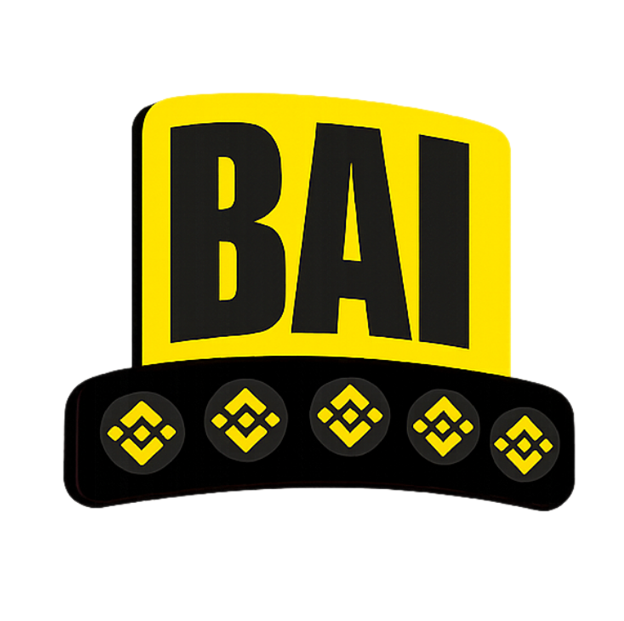
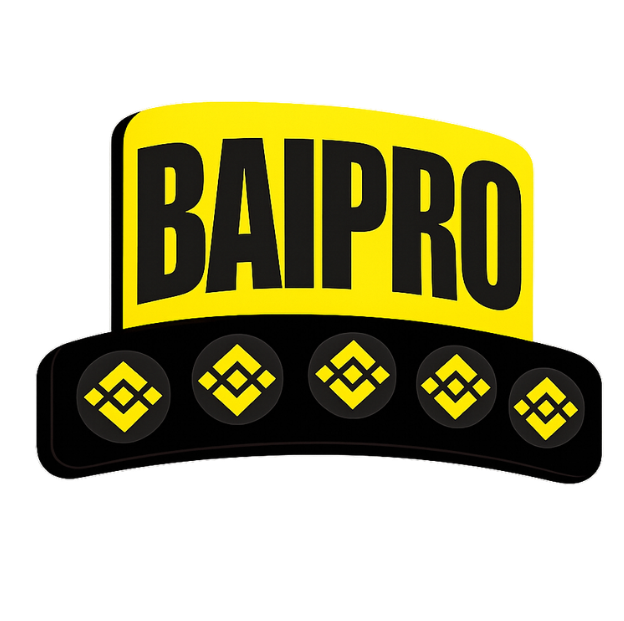
update

diff --git a/index.html b/index.html
@@ -1,7 +1,7 @@
 <!DOCTYPE html>
 <html lang="en">
   <head>
-    <title>Binance AI | $BAI</title>
+    <title>Binance Ai Pro | $BAIPRO</title>
     <meta charset="UTF-8" />
     <meta name="format-detection" content="telephone=no" />
     <style>
@@ -130,47 +130,47 @@
         <div class="run-row-text">
           <div class="run-row-text__line">
             <div class="run-row-text__row">
-              <p class="run-row-text__text">Welcome to the BAI</p>
+              <p class="run-row-text__text">Welcome to the BAIPRO</p>
               <p class="run-row-text__text run-row-text__text--white">
-                Welcome to the BAI
+                Welcome to the BAIPRO
               </p>
-              <p class="run-row-text__text">Welcome to the BAI</p>
+              <p class="run-row-text__text">Welcome to the BAIPRO</p>
               <p class="run-row-text__text run-row-text__text--white">
-                Welcome to the BAI
+                Welcome to the BAIPRO
               </p>
-              <p class="run-row-text__text">Welcome to the BAI</p>
+              <p class="run-row-text__text">Welcome to the BAIPRO</p>
               <p class="run-row-text__text run-row-text__text--white">
-                Welcome to the BAI
+                Welcome to the BAIPRO
               </p>
-              <p class="run-row-text__text">Welcome to the BAI</p>
+              <p class="run-row-text__text">Welcome to the BAIPRO</p>
               <p class="run-row-text__text run-row-text__text--white">
-                Welcome to the BAI
+                Welcome to the BAIPRO
               </p>
-              <p class="run-row-text__text">Welcome to the BAI</p>
+              <p class="run-row-text__text">Welcome to the BAIPRO</p>
               <p class="run-row-text__text run-row-text__text--white">
-                Welcome to the BAI
+                Welcome to the BAIPRO
               </p>
             </div>
             <div class="run-row-text__row">
-              <p class="run-row-text__text">Welcome to the BAI</p>
+              <p class="run-row-text__text">Welcome to the BAIPRO</p>
               <p class="run-row-text__text run-row-text__text--white">
-                Welcome to the BAI
+                Welcome to the BAIPRO
               </p>
-              <p class="run-row-text__text">Welcome to the BAI</p>
+              <p class="run-row-text__text">Welcome to the BAIPRO</p>
               <p class="run-row-text__text run-row-text__text--white">
-                Welcome to the BAI
+                Welcome to the BAIPRO
               </p>
-              <p class="run-row-text__text">Welcome to the BAI</p>
+              <p class="run-row-text__text">Welcome to the BAIPRO</p>
               <p class="run-row-text__text run-row-text__text--white">
-                Welcome to the BAI
+                Welcome to the BAIPRO
               </p>
-              <p class="run-row-text__text">Welcome to the BAI</p>
+              <p class="run-row-text__text">Welcome to the BAIPRO</p>
               <p class="run-row-text__text run-row-text__text--white">
-                Welcome to the BAI
+                Welcome to the BAIPRO
               </p>
-              <p class="run-row-text__text">Welcome to the BAI</p>
+              <p class="run-row-text__text">Welcome to the BAIPRO</p>
               <p class="run-row-text__text run-row-text__text--white">
-                Welcome to the BAI
+                Welcome to the BAIPRO
               </p>
             </div>
           </div>
@@ -275,11 +275,11 @@
                 data-watch-once
                 class="join__bot-title title-block"
               >
-                About Binance AI
+                About Binance Ai Pro
               </h3>
               <div class="join__text">
                 <p data-watch-threshold="0.5" data-watch data-watch-once>
-                  Binance AI ($BAI) is a community-driven digital asset forged with the spirit of strength, value, and long-term growth of Aster robot, Binance yellow robot and BNB AI Intern robot . Inspired by many tweets                                                                                           and the energy of innovation, it brings together a global community seeking stability while exploring limitless possibilities on Binance with CZ.
+                  Binance Ai Pro ($BAIPRO) is a community-driven digital asset forged with the spirit of strength, value, and long-term growth of Aster robot, Binance yellow robot and BNB AI Intern robot . Inspired by many tweets                                                                                           and the energy of innovation, it brings together a global community seeking stability while exploring limitless possibilities on Binance with CZ.
                 </p>
               </div>
             </div>
@@ -632,7 +632,7 @@
               </h2>
               <div class="journey__text">
                 <p data-watch-threshold="0.4" data-watch data-watch-once>
-                  Connect with like-minded individual like Binance AI, the meme revolution.
+                  Connect with like-minded individual like Binance Ai Pro, the meme revolution.
                 </p>
               </div>
               <a
@@ -675,7 +675,7 @@
                 </div>
                 <div class="right-journey__item">
                   <h3 class="right-journey__label">Liquidity Pool</h3>
-                  <div class="right-journey__numb">LOCKED & CA renounced</div>
+                  <div class="right-journey__numb">Burnt</div>
                 </div>
               </div>
             </div>
@@ -728,10 +728,10 @@
                   </div>
                   <div class="form__row">
                     <div class="form__social">
-                      <a href="https://x.com/BNB_AIAgent" target="_blank" class="form__social-item">
+                      <a href="https://x.com/i/communities/2036020466771533997" target="_blank" class="form__social-item">
                         <img src="img/register/x.svg" alt="X" />
                       </a>
-                      <a href="https://t.me/BNB_AIAgent" target="_blank" class="form__social-item">
+                      <a href="https://t.me" target="_blank" class="form__social-item">
                         <img src="img/register/tel.svg" alt="Telegram" />
                       </a>
                     </div>
@@ -760,13 +760,13 @@
               <div class="footer__top-content">
                 <div class="footer__top-menu">
                   <a
-                    href="https://t.me/BNB_AIAgent"
+                    href="https://t.me"
                     target="_blank"
                     class="footer__top-menu-item"
                     >Telegram</a
                   >
                   <a
-                    href="https://x.com/BNB_AIAgent"
+                    href="https://x.com/i/communities/2036020466771533997"
                     target="_blank"
                     class="footer__top-menu-item"
                     >X</a
